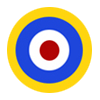
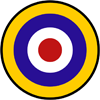
* update flag images in the base flags folder (u-boat,Veqryn)
* allow flag images to be gif or png, gif's will be preferred if both are available to prevent new images in the base folder from overriding images in mods (sgb)

diff --git a/triplea/src/games/strategy/triplea/image/FlagIconImageFactory.java b/triplea/src/games/strategy/triplea/image/FlagIconImageFactory.java
@@ -48,15 +48,17 @@ public class FlagIconImageFactory extends ImageFactory
     public Image getFlag(PlayerID id)
     {
         String key = PREFIX + id.getName() + ".gif";
+        String key2 = PREFIX + id.getName() + ".png";
         
-        return getImage(key, true);
+        return getImage(key, key2, true);
     }
 
   
     public Image getSmallFlag(PlayerID id)
     {
         String key = PREFIX + id.getName() + "_small.gif";
-        return getImage(key, true);
+        String key2 = PREFIX + id.getName() + "_small.png";
+        return getImage(key, key2, true);
     }
 
     public Image getLargeFlag(PlayerID id)
@@ -68,7 +70,8 @@ public class FlagIconImageFactory extends ImageFactory
     public Image getFadedFlag(PlayerID id)
     {
         String key = PREFIX + id.getName() +  "_fade.gif";
-        return getImage(key, true);
+        String key2 = PREFIX + id.getName() +  "_fade.png";
+        return getImage(key, key2, true);
     }
 
     

diff --git a/triplea/src/games/strategy/triplea/image/ImageFactory.java b/triplea/src/games/strategy/triplea/image/ImageFactory.java
@@ -21,6 +21,15 @@ public class ImageFactory
         m_images.clear();
     }
 
+    protected Image getImage(String key1, String key2, boolean throwIfNotFound) {
+    	Image i1 = getImage(key1, false);
+    	
+    	if(i1 != null) {
+    		return i1;
+    	}    	
+    	return getImage(key2, throwIfNotFound);
+    }
+    
     protected Image getImage(String key, boolean throwIfNotFound)
     {
 
